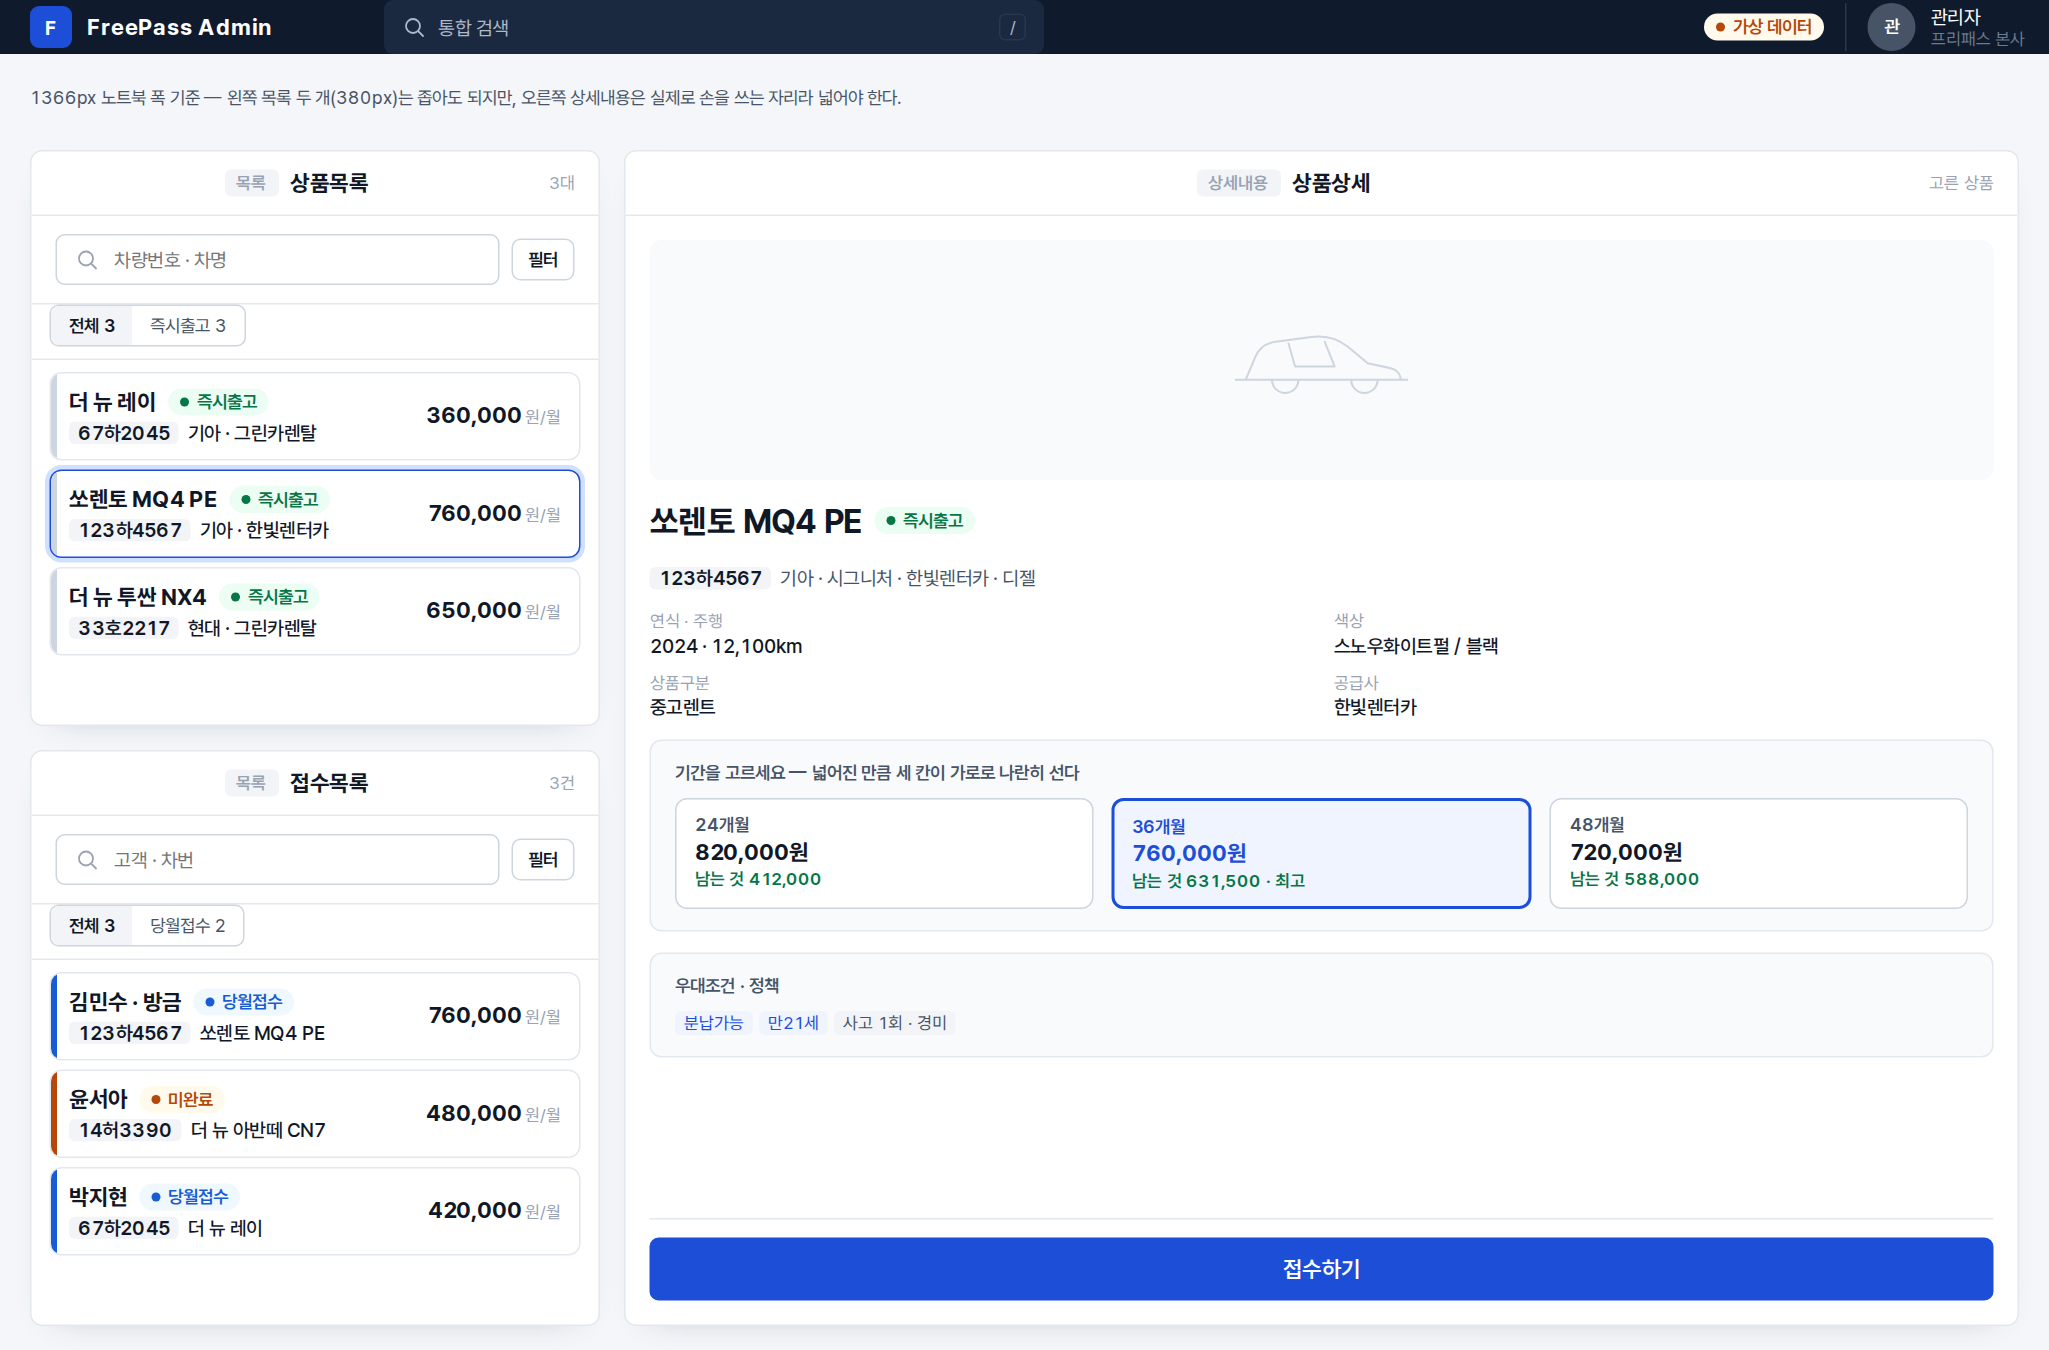
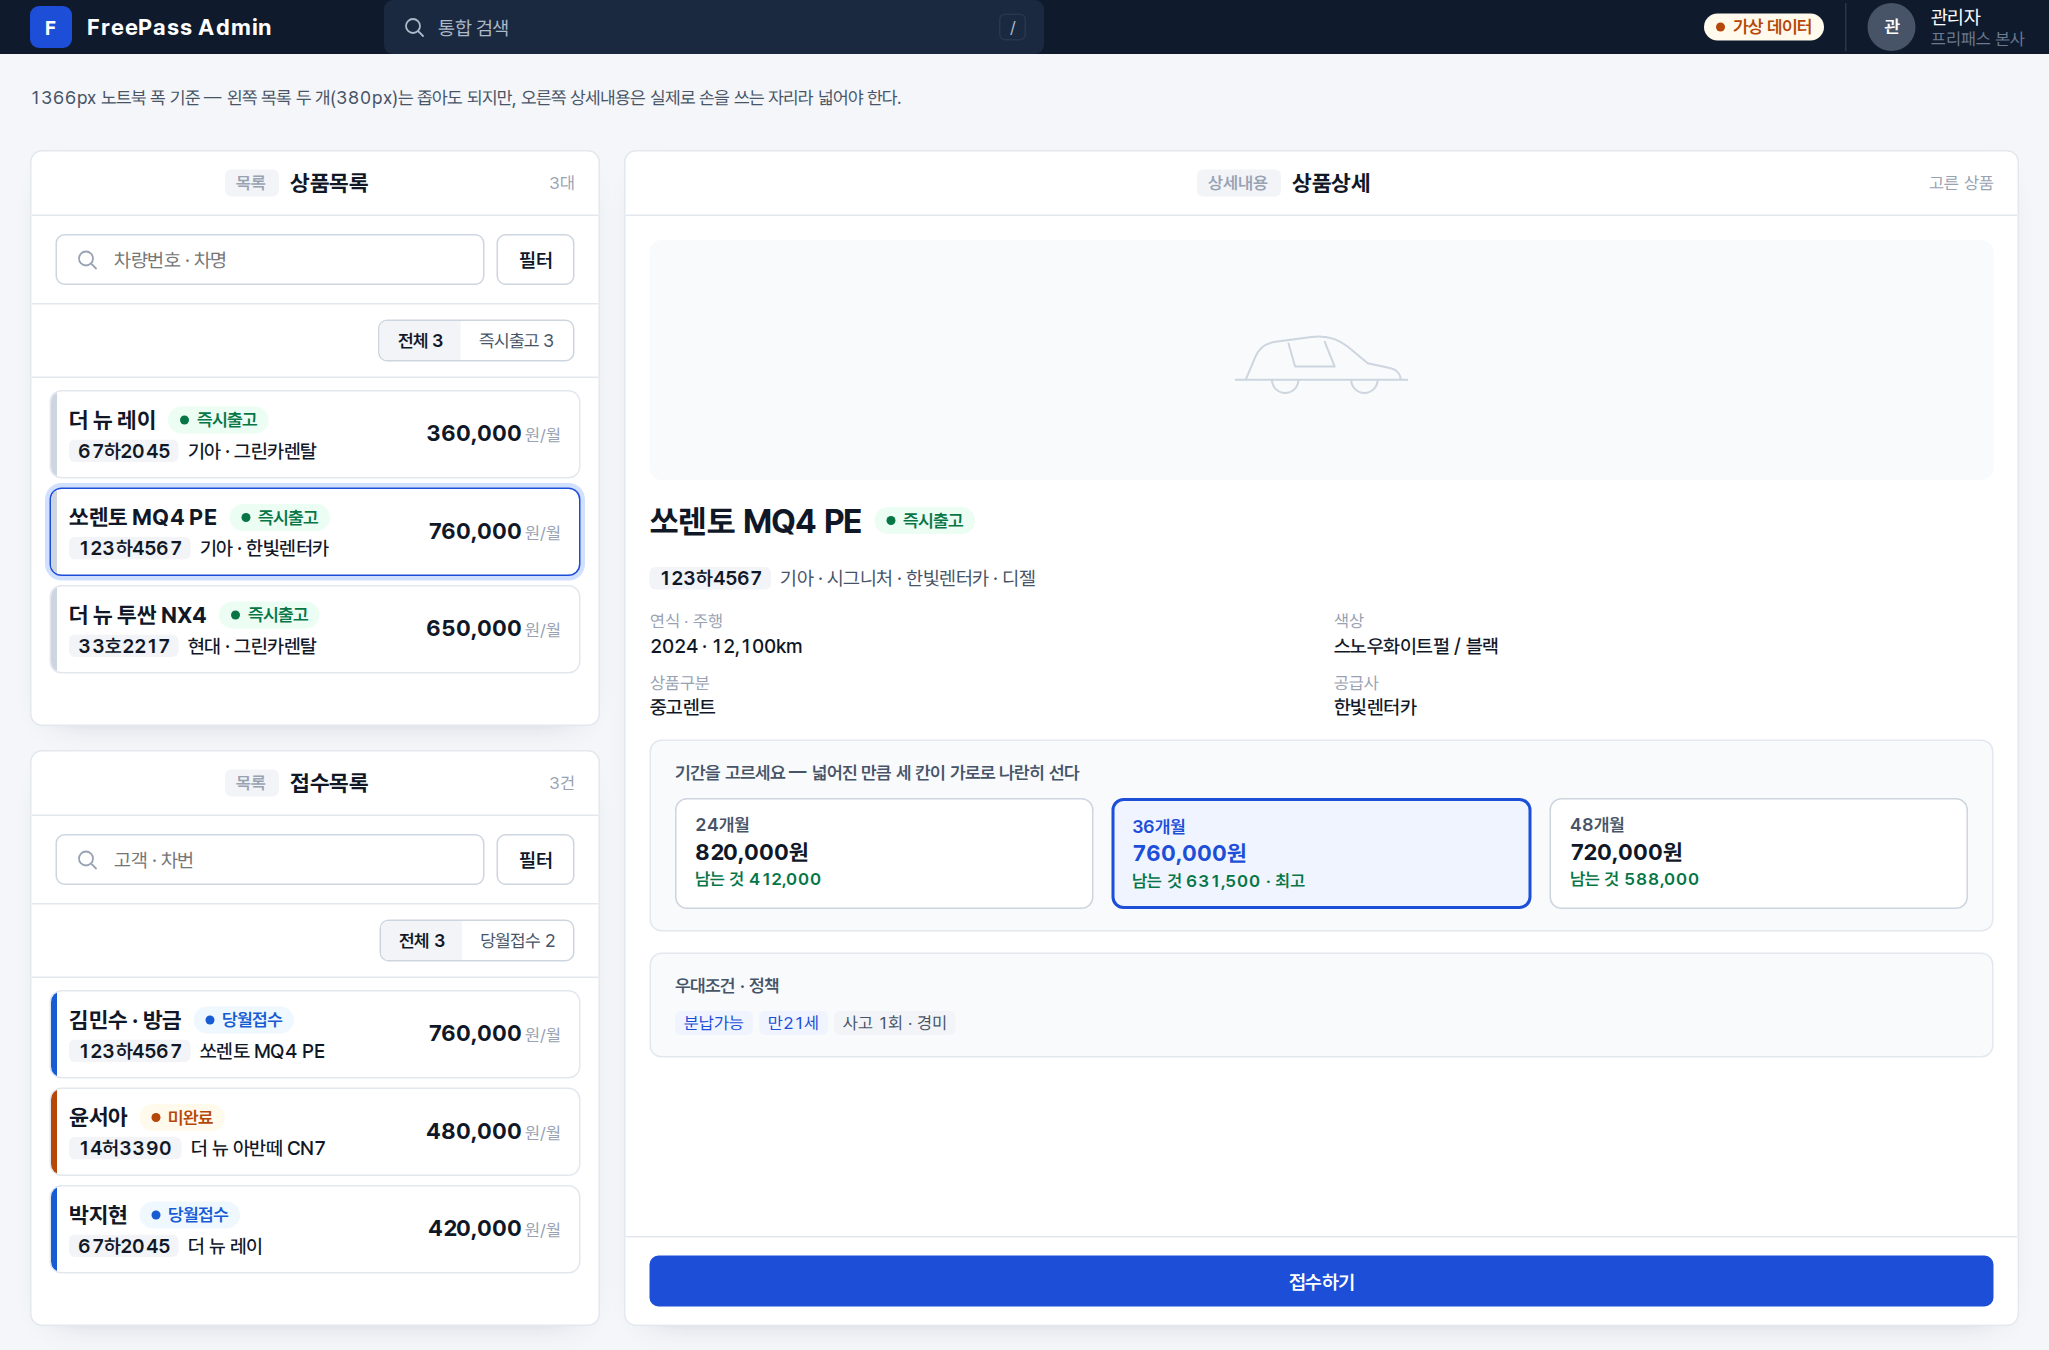
패널 배치 최종 확정 — 상세내용을 기본 패널로 우측에, 목록 두 개를 좌측에 위아래로
대표 재확인 「상세 페이지는 세로 패널 하나가 기본이야 … 상세 패널을 기본 패널로
우측에 두고 목록을 가로로 가로 패널 하나, 그 밑으로 또 가로 패널 하나」 —
동일폭 3등분(side-by-side)을 검토했지만 상세내용이 눌리는 문제가 있어
stacked-panels 안(좌측 목록 두 개 위아래 · 우측 상세내용 전체 높이)으로 확정했다.

stacked-panels.html 의 필터 버튼 · 툴바 패딩 · 접수하기 버튼을 side-by-side 에서
잡은 규격(기본 erp-btn 34px · 표준 툴바 패딩 · erp-panel-foot)에 맞춰 통일했다.

README §5-4 배치 절을 갱신해 이 안을 최종으로, side-by-side 를 검토 후 대체된
안으로 표시했다.

Claude-Session: https://claude.ai/code/session_01VHqvSXhUy82o1cFFrYMP3F

diff --git a/design/erp-standard/reference/stacked-panels.html b/design/erp-standard/reference/stacked-panels.html
@@ -3,10 +3,13 @@
 <head>
 <meta charset="utf-8">
 <meta name="viewport" content="width=device-width, initial-scale=1">
-<title>ERP 표준 — 목록 두 개를 왼쪽에 위아래로, 상세내용을 오른쪽에 넓게 (참고)</title>
-<!-- §5-4 배치 변형 참고 — 대표 2026-09-24 「세로로 세 개 하는 방법 말고 … 목록을 위아래로 두 개 놓고
-     우측에 상세 작업 화면, 상세 패널을 두는 거지」. 부품은 §5-4·§5-5 규격 그대로(erp-panel·erp-rowcard…),
-     배치만 다르다. 좁은 노트북 화면에서 상세내용(실제로 손을 쓰는 자리)이 넓어지는 게 이점이다.
+<title>ERP 표준 — 상세내용을 기본 패널로 오른쪽에, 목록 두 개를 왼쪽에 위아래로 (참고, 최종)</title>
+<!-- §5-4 배치 변형 참고 — 대표 2026-09-24 최초 「세로로 세 개 하는 방법 말고 … 목록을 위아래로 두 개 놓고
+     우측에 상세 작업 화면, 상세 패널을 두는 거지」 → 재확인 「상세 페이지는 세로 패널 하나가 기본이야 …
+     상세 패널을 기본 패널로 우측에 두고 목록을 가로로 가로 패널 하나, 그 밑으로 또 가로 패널 하나」.
+     부품은 §5-4·§5-5 규격 그대로(erp-panel·erp-rowcard…), 배치만 다르다. 좁은 노트북 화면에서
+     상세내용(실제로 손을 쓰는 자리)이 넓어지는 게 이점이다. 필터 버튼 · 툴바 패딩 · 접수하기 버튼은
+     side-by-side.html 에서 잡은 규격(기본 erp-btn · 표준 툴바 패딩 · erp-panel-foot)을 그대로 따른다.
      이름 · 차량번호는 가상 예시다. -->
 <link rel="stylesheet" href="https://cdn.jsdelivr.net/gh/orioncactus/pretendard@v1.3.9/dist/web/variable/pretendardvariable-dynamic-subset.css">
 <link rel="stylesheet" href="../erp.css">
@@ -28,8 +31,8 @@
   <div class="stack-left">
     <section class="erp-panel erp-panel--compact">
       <div class="erp-panel-head"><span class="erp-panel-kind">목록</span><h2>상품목록</h2><span>3대</span></div>
-      <form class="erp-searchbar" data-region="filter" role="search"><label class="erp-search"><svg viewBox="0 0 24 24"><circle cx="11" cy="11" r="7"/><path d="m21 21-4.3-4.3"/></svg><input placeholder="차량번호 · 차명" aria-label="검색"></label><details class="erp-filter-more"><summary class="erp-btn erp-btn--sm">필터</summary></details></form>
-      <div class="erp-toolbar" data-region="grid-toolbar" style="padding:0 var(--erp-sp-3) var(--erp-sp-2)"><div class="erp-seg" role="group" aria-label="퀵 필터"><button type="button" aria-pressed="true">전체 3</button><button type="button" aria-pressed="false">즉시출고 3</button></div></div>
+      <form class="erp-searchbar" data-region="filter" role="search"><label class="erp-search"><svg viewBox="0 0 24 24"><circle cx="11" cy="11" r="7"/><path d="m21 21-4.3-4.3"/></svg><input placeholder="차량번호 · 차명" aria-label="검색"></label><details class="erp-filter-more"><summary class="erp-btn">필터</summary></details></form>
+      <div class="erp-toolbar" data-region="grid-toolbar"><span class="erp-toolbar-spacer"></span><div class="erp-seg" role="group" aria-label="퀵 필터"><button type="button" aria-pressed="true">전체 3</button><button type="button" aria-pressed="false">즉시출고 3</button></div></div>
       <div class="erp-panel-body"><div class="erp-rowcards" style="overflow:visible"><article class="erp-rowcard erp-rowcard--no-steps">
     <div class="erp-rowcard-id"><h3 class="erp-rowcard-title"><a class="erp-rowcard-link" href="#">더 뉴 레이</a><span class="erp-badge erp-badge--ok">즉시출고</span></h3><div class="erp-rowcard-car"><b>67하2045</b>기아 · 그린카렌탈</div></div>
     <dl class="erp-rowcard-facts"><div><dt>상품구분</dt><dd>중고렌트</dd></div><div><dt>기간</dt><dd>36개월</dd></div></dl>
@@ -46,8 +49,8 @@
     </section>
     <section class="erp-panel erp-panel--compact">
       <div class="erp-panel-head"><span class="erp-panel-kind">목록</span><h2>접수목록</h2><span>3건</span></div>
-      <form class="erp-searchbar" data-region="filter" role="search"><label class="erp-search"><svg viewBox="0 0 24 24"><circle cx="11" cy="11" r="7"/><path d="m21 21-4.3-4.3"/></svg><input placeholder="고객 · 차번" aria-label="검색"></label><details class="erp-filter-more"><summary class="erp-btn erp-btn--sm">필터</summary></details></form>
-      <div class="erp-toolbar" data-region="grid-toolbar" style="padding:0 var(--erp-sp-3) var(--erp-sp-2)"><div class="erp-seg" role="group" aria-label="퀵 필터"><button type="button" aria-pressed="true">전체 3</button><button type="button" aria-pressed="false">당월접수 2</button></div></div>
+      <form class="erp-searchbar" data-region="filter" role="search"><label class="erp-search"><svg viewBox="0 0 24 24"><circle cx="11" cy="11" r="7"/><path d="m21 21-4.3-4.3"/></svg><input placeholder="고객 · 차번" aria-label="검색"></label><details class="erp-filter-more"><summary class="erp-btn">필터</summary></details></form>
+      <div class="erp-toolbar" data-region="grid-toolbar"><span class="erp-toolbar-spacer"></span><div class="erp-seg" role="group" aria-label="퀵 필터"><button type="button" aria-pressed="true">전체 3</button><button type="button" aria-pressed="false">당월접수 2</button></div></div>
       <div class="erp-panel-body"><div class="erp-rowcards" style="overflow:visible"><article class="erp-rowcard" data-tone="info">
     <div class="erp-rowcard-id"><h3 class="erp-rowcard-title"><a class="erp-rowcard-link" href="#">김민수 · 방금</a><span class="erp-badge erp-badge--info">당월접수</span></h3><div class="erp-rowcard-car"><b>123하4567</b>쏘렌토 MQ4 PE</div></div>
     <ol class="erp-rowcard-steps" aria-label="진행"><li data-state="done"><i></i>접수</li><li aria-current="step"><i></i>계약서</li><li><i></i>인도</li><li><i></i>청구</li><li><i></i>수금·지급</li></ol>
@@ -88,8 +91,8 @@
         </div>
       </div>
       <div class="box"><p class="box-title">우대조건 · 정책</p><span class="erp-tags"><span class="erp-tag erp-tag--primary">분납가능</span><span class="erp-tag erp-tag--primary">만21세</span><span class="erp-tag">사고 1회 · 경미</span></span></div>
-      <div class="foot"><button class="erp-btn erp-btn--primary" type="button">접수하기</button></div>
     </div>
+    <div class="erp-panel-foot"><button class="erp-btn erp-btn--primary" type="button">접수하기</button></div>
   </section>
 </main>
 </body>

diff --git a/design/erp-standard/reference/stacked-panels.css b/design/erp-standard/reference/stacked-panels.css
@@ -24,5 +24,3 @@ body.ref-page { margin: 0; padding: 0; height: 100vh; display: flex; flex-direct
 .stack-right .term em { color: var(--erp-color-ok); font-size: var(--erp-fs-caption); font-style: normal; font-weight: var(--erp-fw-semibold); }
 .stack-right .term[aria-pressed="true"] { border: 2px solid var(--erp-color-primary); background: var(--erp-color-primary-weak); }
 .stack-right .term[aria-pressed="true"] b, .stack-right .term[aria-pressed="true"] strong { color: var(--erp-color-primary); }
-.stack-right .foot { margin-top: auto; padding-top: 12px; border-top: 1px solid var(--erp-color-line); }
-.stack-right .foot .erp-btn--primary { width: 100%; justify-content: center; height: 42px; font-size: var(--erp-fs-section); }

diff --git a/design/erp-standard/README.md b/design/erp-standard/README.md
@@ -208,12 +208,16 @@
 이 확인 과정에서 좁은 폭에서 검색창이 안 줄어들어 필터 버튼이 밀려나는 결함을 찾아 `erp-search`(줄어들게 `min-width:0`)와
 `erp-searchbar`(넘치면 줄바꿈)를 고쳤다 — 폰만이 아니라 좁은 패널에도 함께 적용되는 수정이다.
 
-**패널 배치 — 목록 두 개를 왼쪽에 위아래로, 상세내용을 오른쪽에 넓게** (대표 2026-09-24 「세로로 세 개 하는 방법 말고 …
-목록을 위아래로 두 개 놓고 우측에 상세 작업 화면, 상세 패널을 두는 거지」). 패널 세 개를 한 줄로 나란히 두면(시안 I 최초안)
-노트북 폭(1366px)에서 상세내용이 눌린다. **목록 패널은 폭이 좁아도 되지만(줄 카드는 세로로도 잘 읽힌다),
-상세내용 패널은 실제로 손을 쓰는 자리라 넓어야 한다** — 그래서 목록 두 개(상품목록 · 접수목록)를 왼쪽 한 열에 위아래로 쌓고,
-상세내용 패널이 오른쪽 나머지 폭을 전부 가져간다. 확인 그림: [reference/stacked-panels.html](reference/stacked-panels.html) ·
+**패널 배치 — 상세내용을 기본 패널로 오른쪽에, 목록 두 개를 왼쪽에 위아래로(최종)** (대표 2026-09-24 최초
+「세로로 세 개 하는 방법 말고 … 목록을 위아래로 두 개 놓고 우측에 상세 작업 화면, 상세 패널을 두는 거지」 →
+가로 3등분(side-by-side)을 검토한 뒤 재확인 「상세 페이지는 세로 패널 하나가 기본이야 … 상세 패널을 기본
+패널로 우측에 두고 목록을 가로로 가로 패널 하나, 그 밑으로 또 가로 패널 하나」). 패널 세 개를 똑같은 폭으로
+한 줄에 나란히 두면(side-by-side) 상세내용이 목록과 같은 좁은 폭으로 눌린다. **목록 패널은 폭이 좁아도 되지만
+(줄 카드는 세로로도 잘 읽힌다), 상세내용 패널은 실제로 손을 쓰는 자리라 넓어야 한다** — 그래서 목록 두 개
+(상품목록 · 접수목록)를 왼쪽 한 열에 위아래로 쌓고, 상세내용 패널이 오른쪽 나머지 폭을 전부 가져가는 걸
+기본 패널로 삼는다. 확인 그림: [reference/stacked-panels.html](reference/stacked-panels.html) ·
 `images/stacked-panels.png`(1366px 기준). 패널 · 카드 부품은 완전히 같다 — 배치(그리드 열 나눔)만 다르다.
+필터 버튼 · 툴바 패딩 · 접수하기 버튼(`erp-panel-foot`)도 side-by-side 에서 잡은 규격 그대로 맞췄다.
 
 **패널 배치 — 위에 상품목록 · 상품상세, 아래에 접수목록을 전체 폭으로** (대표 2026-09-24 「이건 접수를 하기 위한 거다 …
 접수 과정을 명확하게 지켜보려면 아래쪽을 다 넓게 접수목록을 주고, 상품찾기와 상품상세는 그 위에 … 패널은 세 개가 맞다,
@@ -242,8 +246,9 @@ facts 는 상세내용 패널 몫이라 compact 에서는 아예 뺀다(`display
 확인 그림: [reference/stacked-vertical.html](reference/stacked-vertical.html) · `images/stacked-vertical.png`.
 (참고용으로만 남긴다 — 실제 배치로 채택하지 않았다.)
 
-**패널 배치 — 가로로 붙이기, 동일 폭(최종)** (대표 2026-09-24 「아니 세로패널을 가로로 붙이라고」 →
-「3개 패널을 동일 간격으로」). 패널 세 개(상품목록 · 상품상세 · 접수목록)를 한 화면에 나란히, **똑같은 폭**으로
+**패널 배치 — 가로로 붙이기, 동일 폭(검토 후 대체)** (대표 2026-09-24 「아니 세로패널을 가로로 붙이라고」 →
+「3개 패널을 동일 간격으로」→ 재확인 후 위 "상세내용을 기본 패널로" 안으로 대체됨). 패널 세 개
+(상품목록 · 상품상세 · 접수목록)를 한 화면에 나란히, **똑같은 폭**으로
 두고 뷰포트 높이를 꽉 채워 각자 안에서 스크롤한다. 목록 두 패널은 `erp-panel--compact`를 붙여 카드가 세로 흐름으로
 접히고, 상세내용 패널도 같은 폭을 쓰되 안의 사진 · 정보 · 기간선택을 가로가 아니라 세로로 쌓아 좁은 폭에 맞춘다.
 확인 그림: [reference/side-by-side.html](reference/side-by-side.html) · `images/side-by-side.png`.
